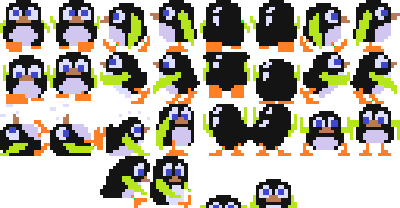
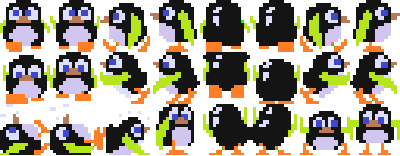
Corregido spriteSheet personaje

diff --git a/src/scenes/Preloader.js b/src/scenes/Preloader.js
@@ -66,7 +66,7 @@ export class Preloader extends Scene
         this.load.atlas('tiles-jewels', './img/jewels.png', './img/jewels.json');
         this.load.spritesheet('tile-broken', './img/tile-broken-ssheet.png', {frameWidth: 64, frameHeight: 64});
         
-        this.load.spritesheet('pengo-ssheet', './img/pengo-ssheet.png', {frameWidth: 50, frameHeight: 50});
+        this.load.spritesheet('pengo-ssheet', './img/pengo-ssheet.png', {frameWidth: 50, frameHeight: 52});
 
         // Pluggin VirtualJoystick
         let url = 'https://raw.githubusercontent.com/rexrainbow/phaser3-rex-notes/master/dist/rexvirtualjoystickplugin.min.js';
